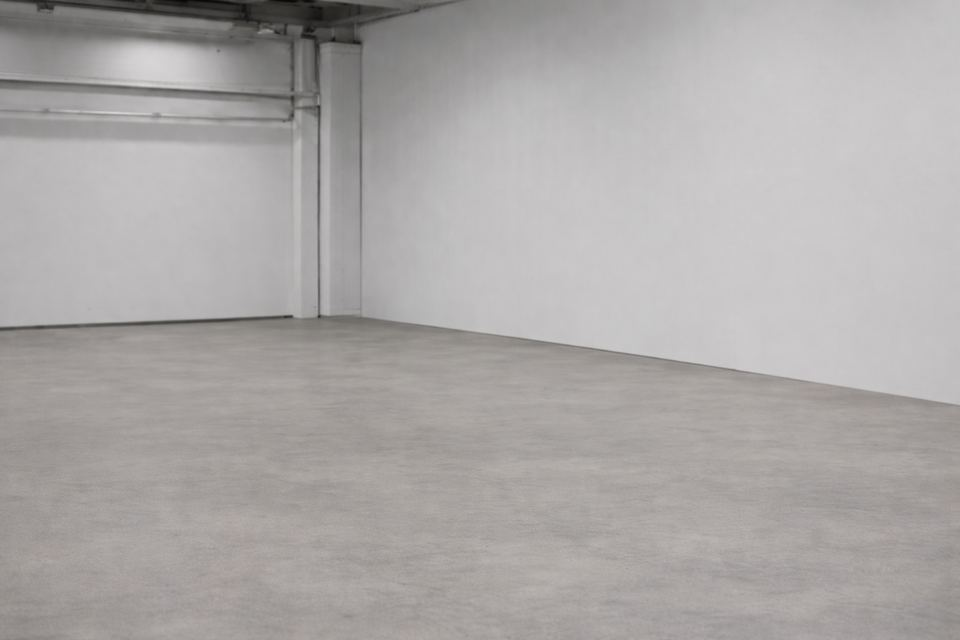
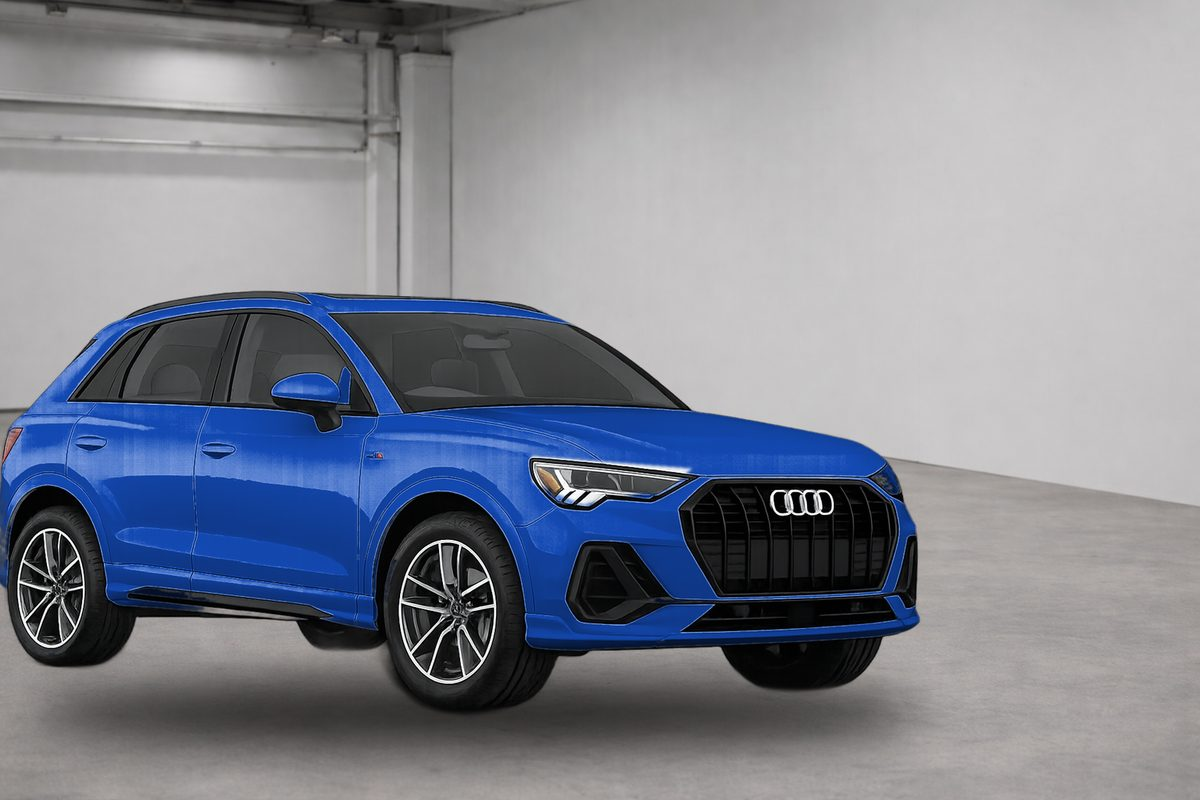
Приложение: синяя Q3 в гараже, читаемый текст на главной

diff --git a/app/index.html b/app/index.html
@@ -34,12 +34,14 @@ h2{font-size:21px;margin:2px 0 12px;letter-spacing:.2px}
 .big b{display:block;font-size:21px;margin-bottom:4px;position:relative}
 .big span{color:var(--hint);position:relative}
 .big .ico{position:absolute;right:18px;top:18px;font-size:26px;opacity:.9}
-.big.hero{min-height:190px;display:flex;flex-direction:column;justify-content:flex-end;background:url(garage.jpg) center/cover;box-shadow:var(--glow),var(--shadow)}
-.big.hero:before{content:"";position:absolute;inset:0;background:linear-gradient(180deg,rgba(11,20,22,.05) 0%,rgba(11,20,22,.55) 45%,rgba(11,20,22,.95) 100%)}
+.big.hero{min-height:230px;display:flex;flex-direction:column;justify-content:flex-start;background:url(garage.jpg) 30% 100%/cover;box-shadow:var(--glow),var(--shadow)}
+.big.hero:before{content:"";position:absolute;inset:0;background:linear-gradient(180deg,rgba(11,20,22,.88) 0%,rgba(11,20,22,.55) 30%,rgba(11,20,22,0) 55%,rgba(11,20,22,0) 85%,rgba(11,20,22,.35) 100%)}
+.big.hero b,.big.hero span#homeCount{text-shadow:0 0 2px #000,0 0 6px #000,0 0 14px rgba(0,0,0,.9),0 1px 2px #000}
 .big.hero:after{content:"";position:absolute;inset:0;border-radius:22px;border:1px solid rgba(0,160,230,.45);pointer-events:none}
-.big.hero span#homeCount{color:#cfe9f5}
+.big.hero span#homeCount{color:#fff;font-weight:500}
 .big.glass{border:1px solid var(--line);animation-delay:.08s}
 .pill{display:inline-block;align-self:flex-start;font-size:12px;font-weight:600;padding:3px 10px;border-radius:20px;background:var(--accent);color:#fff;margin-bottom:8px;position:relative;box-shadow:0 4px 14px -4px rgba(0,160,230,.8)}
+.big .pill{color:#fff;text-shadow:0 1px 2px rgba(0,0,0,.35);letter-spacing:.2px}
 .foot{text-align:center;color:var(--hint);font-size:12px;margin-top:22px;opacity:.7}
 
 /* каталог */
